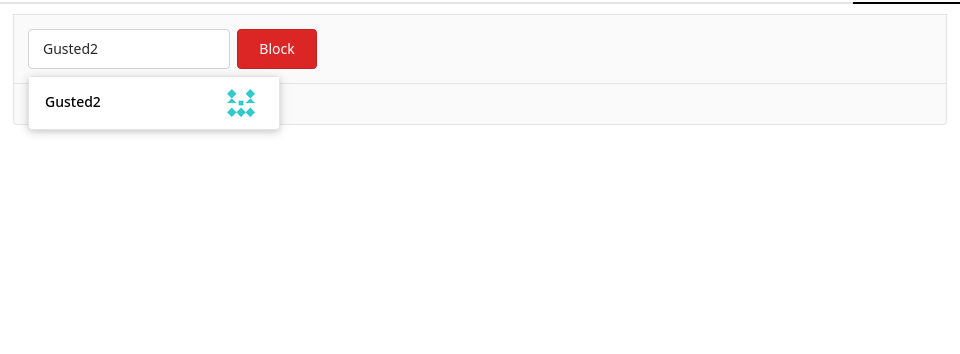
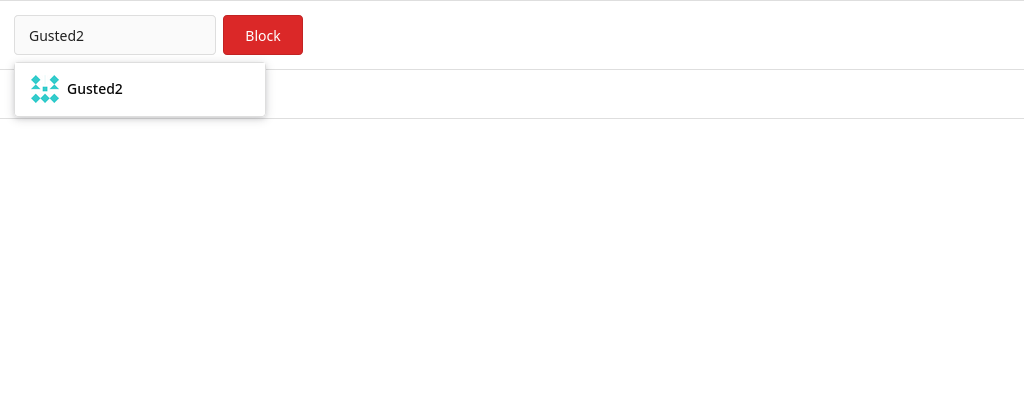
Refactor blocking users page
- Update images to the 'new' design and have better consistency with
sizes (using Firefox's screenshot node feature).
- Add section for blocking users as a user of where to find the list of
blocked users and how to unblock them.

(cherry picked from commit fcb6347c18f8e555bc84825573ba62a161632208)

Changed region(s): [[0.0, 0.0, 1.0, 0.3729], [0.0312, 0.0621, 0.125, 0.1554]]

diff --git a/docs/user/blocking-user.md b/docs/user/blocking-user.md
@@ -15,13 +15,27 @@ A popup will show; please read carefully what blocking another user implies, and
 
 ![Popup where implications of the block action is listed](../_images/user/block/popup.png)
 
+### List of blocked users and unblocking
+
+If you would like to see the list of users you've blocked, navigate to your user profile in the top-right corner and click on the settings item.
+
+![Dropdown that shows up after clicking on the profile in the navigation bar](../_images/user/block/profile_dropdown.png)
+
+Select the Blocked Users item in the menu. This navigates you to the page where the users you've blocked are listed.
+
+![Blocked Users page being selected in the settings menu](../_images/user/block/user_settings.png)
+
+To unblock someone, click on the unblock button next to their name.
+
+![List of people that are currently blocked by the user](../_images/user/block/user_list_blocks.png)
+
 ## How to block someone as an organization
 
 It is possible to block a user from an organization, this has the same implications as a normal user blocking another user. To block a user from an organization, you must be on that organization's Owners team.
 
 Navigate to your organization's settings and select the Blocked Users page.
 
-![Blocked Users page being selected in the table](../_images/user/block/org_page.png)
+![Blocked Users page being selected in the settings menu](../_images/user/block/org_page.png)
 
 Find the person you want to block in the search bar, select the user and click block.
 
